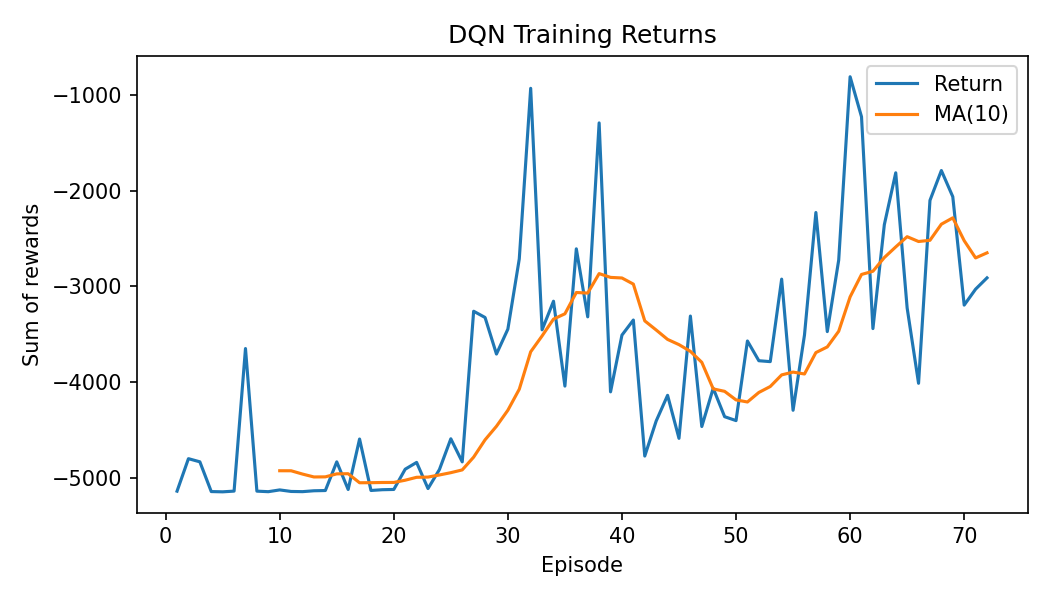
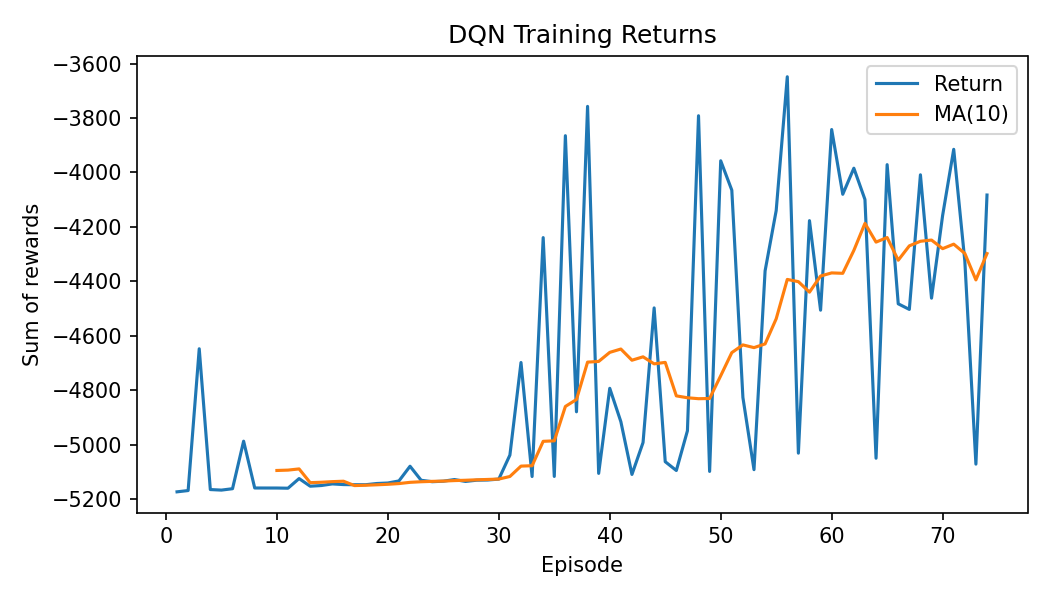
new reward with headway distance

diff --git a/rl_mixed_traffic/env/ring_env.py b/rl_mixed_traffic/env/ring_env.py
@@ -326,7 +326,8 @@ class RingRoadEnv(gym.Env):
         R_ttc = -0.02 * ((tau_safe - ttc) / tau_safe) if ttc < tau_safe else 0.0
 
         # headway distance -> penalize being too far
-        gap_threshold = 10.0  # desired headway distance (m)
+        print(f"Distance to lead vehicle: {d_gap:.2f} m")
+        gap_threshold = 15.0  # desired headway distance (m)
         r_d = -1.0 if d_gap > gap_threshold else 0.0
 
         # Penalize jerk (acceleration changes): Comfort penalty
